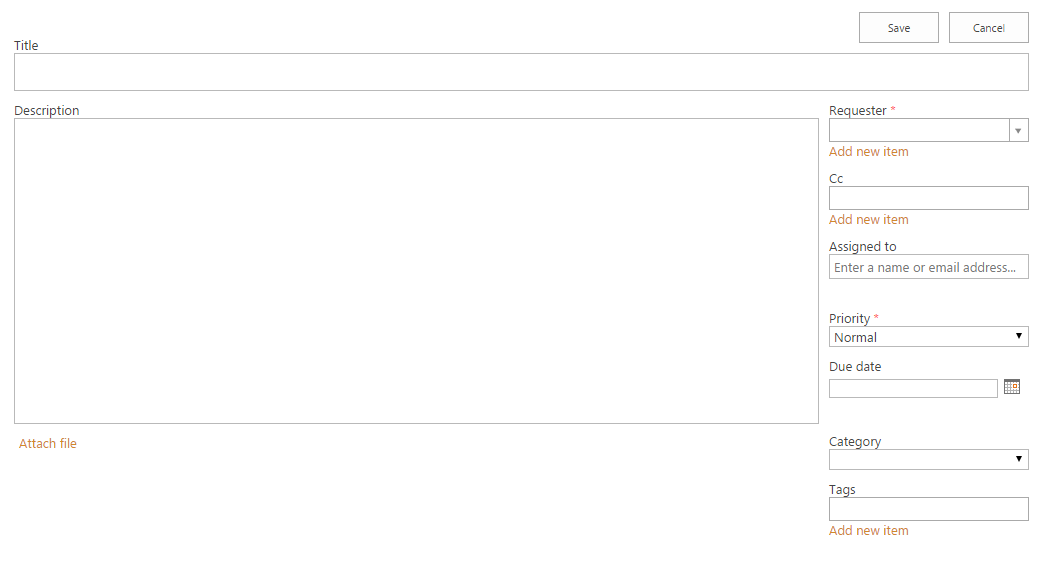
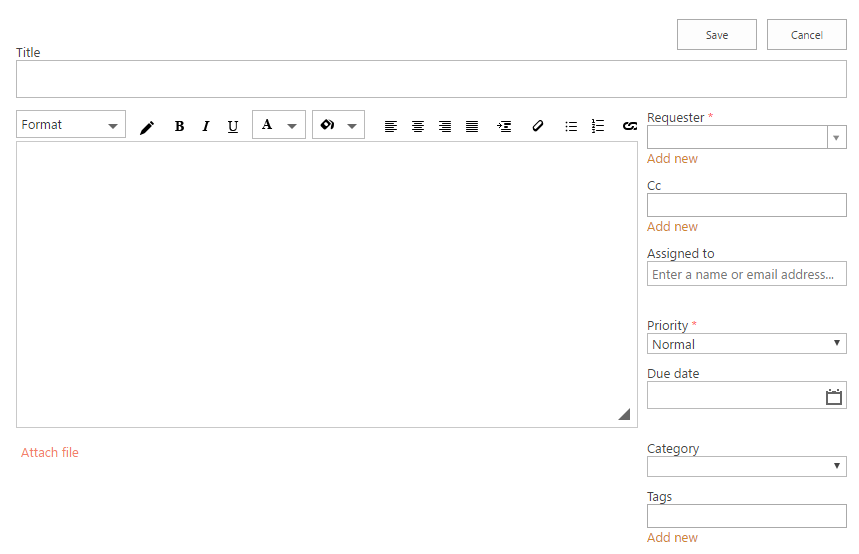
New docs in how-to

diff --git a/Common/How To/Create multiple help desks for different departments and configure them with different inboxes.rst b/Common/How To/Create multiple help desks for different departments and configure them with different inboxes.rst
@@ -1,0 +1,57 @@
+Create multiple help desks for different departments and configure them with different inboxes
+##############################################################################################
+
+Let’s say that you have several departments — R&D, HR, and Support. Each of them has unique practices, different e-mail boxes and you want to separate them one from another. Here you can learn how to create multiple help desks and configure them with different inboxes in your service desk.
+
+For that, first of all, you need to create a subsite for each department and then install help desk there.
+
+Note that licensing of Plumsail HelpDesk allows you to install any amount of help desks within one web domain in Office 365 and one server on-premises. Due to it, you can create a separate mailbox for every department, give different permission levels to users and configure an e-mail notification according to needs of a department.
+
+So, navigate to site contents.
+
+|siteContent|
+
+And choose ‘Subsite’ in the drop-down menu.
+
+|Subsite|
+
+Provide title, website address of one department and select a template.  
+
+|SubsiteDetails|
+
+Pay attention to permission settings. Here you can select unique access to a new subsite.
+
+|SubsitePermissions|
+
+And even more — define visitors, members and owners of this site.
+
+|SubsiteVisitors|
+
+New subsite has been created and could be found on the home page in the top link bar.
+
+|TopLinkBar|
+
+After all, just install `Plumsail HelpDesk`_ to your new subsite. When you finish with installation, you can configure forwarding messages from your e-mail address straight to Support help desk. You can find out how to do that in our `documentation`_.
+
+|Email|
+
+Also, you can design triggers for your own needs. For example, you can configure a trigger for notification on special issues. `In this article`_, you can find more information about how to do that.
+
+.. |siteContent| image:: /_static/img/site-content.png
+   :alt: Site contents
+.. |Subsite| image:: /_static/img/subsite.png
+   :alt: Subsite
+.. |SubsiteDetails| image:: /_static/img/subsite-details.png
+   :alt: Subsite details
+.. |SubsitePermissions| image:: /_static/img/subsite-perm.png
+   :alt: Subsite permissions
+.. |SubsiteVisitors| image:: /_static/img/subsite-visitors.png
+   :alt: Subsite visitors
+.. |TopLinkBar| image:: /_static/img/top-link-bar.png
+   :alt: Top link bar
+.. |Email| image:: /_static/img/email-settings-forwarding.png
+   :alt: Email settings
+
+.. _Plumsail HelpDesk: https://plumsail.com/sharepoint-helpdesk/download/
+.. _documentation: https://plumsail.com/docs/help-desk-o365/v1.x/Configuration%20Guide/Email%20settings.html#forwarding-of-e-mail-messages-from-your-support-mailbox
+.. _In this article: https://plumsail.com/docs/help-desk-o365/v1.x/How%20To/Add%20new%20email%20notification.html

diff --git a/Online/index.rst b/Online/index.rst
@@ -88,6 +88,7 @@ Office 365 documentation articles
       How To/Assign ticket to multiple agents
       How To/Assign ticket to specific person
       How To/Configure assigning based on forwarding address
+      How To/Create multiple help desks for different departments and configure them with different inboxes
       How To/Create a new chart
       How To/Create a new view
       How To/Edit ticket's properties from mailbox
@@ -95,10 +96,11 @@ Office 365 documentation articles
       How To/Find the internal name of SharePoint column
       How To/Send SMS notifications from help desk with Microsoft Flow and Twilio
       How To/Start a workflow with a trigger
+      How To/Sync SharePoint user profiles fields to HelpDesk contacts
       How To/Track time spent to solve the ticket
       How To/Update Help Desk message template
-      How To/Sync SharePoint user profiles fields to HelpDesk contacts
-
+   
+     
    .. toctree::
       :caption: Videos
       :name: videostoc

diff --git a/OnPremises/index.rst b/OnPremises/index.rst
@@ -83,14 +83,15 @@ SP 2013 / 2016 documentation articles
       How To/Assign ticket to multiple agents
       How To/Assign ticket to specific person
       How To/Configure assigning based on forwarding address
+      How To/Create multiple help desks for different departments and configure them with different inboxes
       How To/Create a new chart
       How To/Create a new view
       How To/Edit ticket's properties from mailbox
       How To/Export tickets to Excel
       How To/Find the internal name of SharePoint column
       How To/Send SMS notifications from help desk with Microsoft Flow and Twilio
-      How To/Sync SharePoint user profiles fields to HelpDesk contacts
       How To/Start a workflow with a trigger
+      How To/Sync SharePoint user profiles fields to HelpDesk contacts
       How To/Track time spent to solve the ticket
       How To/Update Help Desk message template
 

diff --git a/Online/Configuration Guide/Widget.rst b/Online/Configuration Guide/Widget.rst
@@ -7,7 +7,9 @@ Widget
 	The latest version of Google Chrome browser doesn't support embedding scripts with Script Editor Web Part.
 	Please use different browsers like Microsoft Edge or Mozilla Firefox.
 
-HelpDesk Widget is a web part app for requesters. This widget can be embedded on your site, so customers can easily submit tickets and review them. Here is 'My tickets' view looks like for end-users:
+HelpDesk Widet is a tool for requesters allowing them to review their tickets, add comments and attachments. It can be embedded in a public website or a SharePoint site other than a site where the HelpDesk is installed, so requesters will not have access to all tickets in your help desk.
+
+Here is 'My tickets' view looks like for end-users:
 
 |WidgetView|
 

diff --git a/Online/General/Versionhistory.rst b/Online/General/Versionhistory.rst
@@ -85,7 +85,7 @@ Version 1.2.7
 
 New features:
 
-- New rich text editor for comments.
+- `New rich text editor`_ for comments.
 - Ability to paste pictures to text editor.
 - Ability to upload pictures with drag and drop.
 - Guided tour to users on first entrance.
@@ -124,3 +124,4 @@ Version 1.0
 .. _uninstall page: https://plumsail.com/docs/help-desk-o365/v1.x/Configuration%20Guide/Uninstall%20HelpDesk.html
 .. _client secret renewal: https://plumsail.com/docs/help-desk-o365/v1.x/Configuration%20Guide/Client%20secret%20renewal.html
 .. _widget: https://plumsail.com/docs/help-desk-o365/v1.x/Configuration%20Guide/Widget.html
+.. _New rich text editor: https://plumsail.com/blog/2016/10/new-editor-for-tickets/
